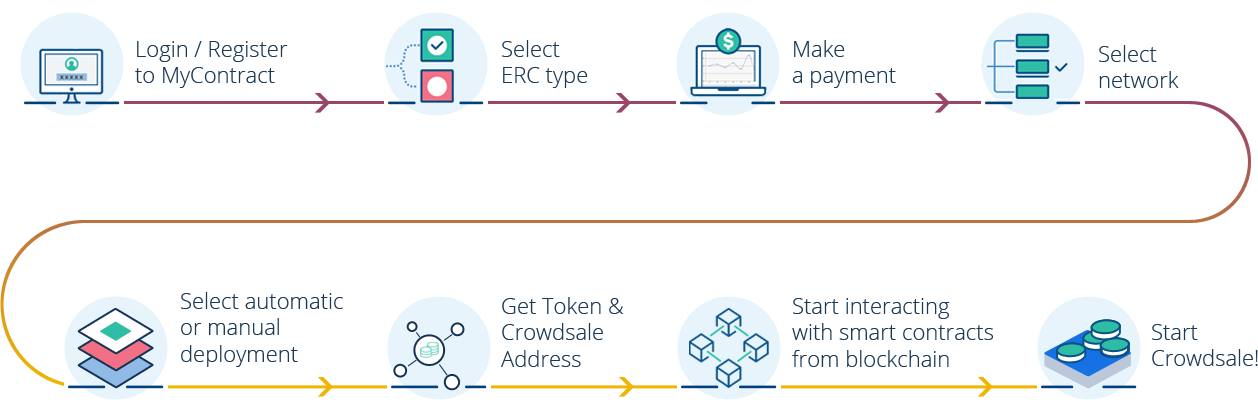
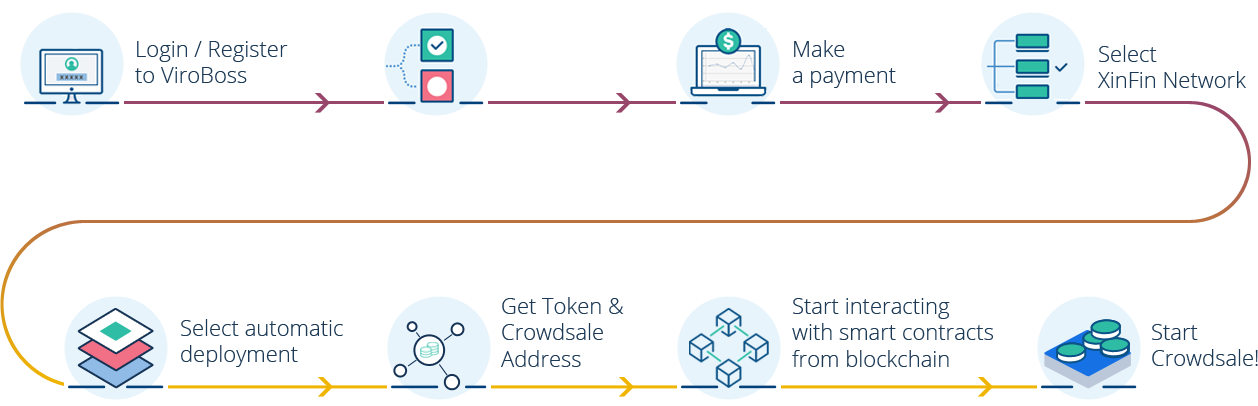
UI changes
toastr.min.css changes,
Images changes

diff --git a/public/landingPageAssets/css/toastr.min.css b/public/landingPageAssets/css/toastr.min.css
@@ -187,23 +187,23 @@ button.toast-close-button {
 }
 
 .toast {
-    background-color: #030303
+    background-color: #030303;
 }
 
 .toast-success {
-    background-color: #51A351
+    background-color: #51A351;
 }
 
 .toast-error {
-    background-color: #BD362F
+    background-color: #BD362F;
 }
 
 .toast-info {
-    background-color: #2F96B4
+    background-color: #984669;
 }
 
 .toast-warning {
-    background-color: #F89406
+    background-color: #F89406;
 }
 
 .toast-progress {
